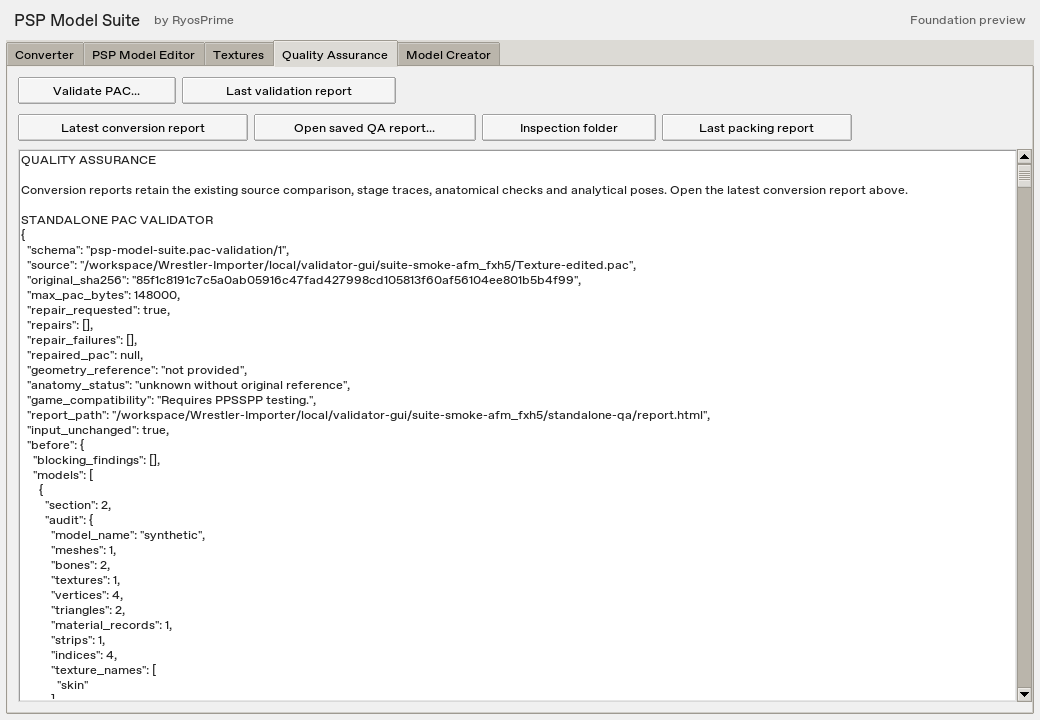
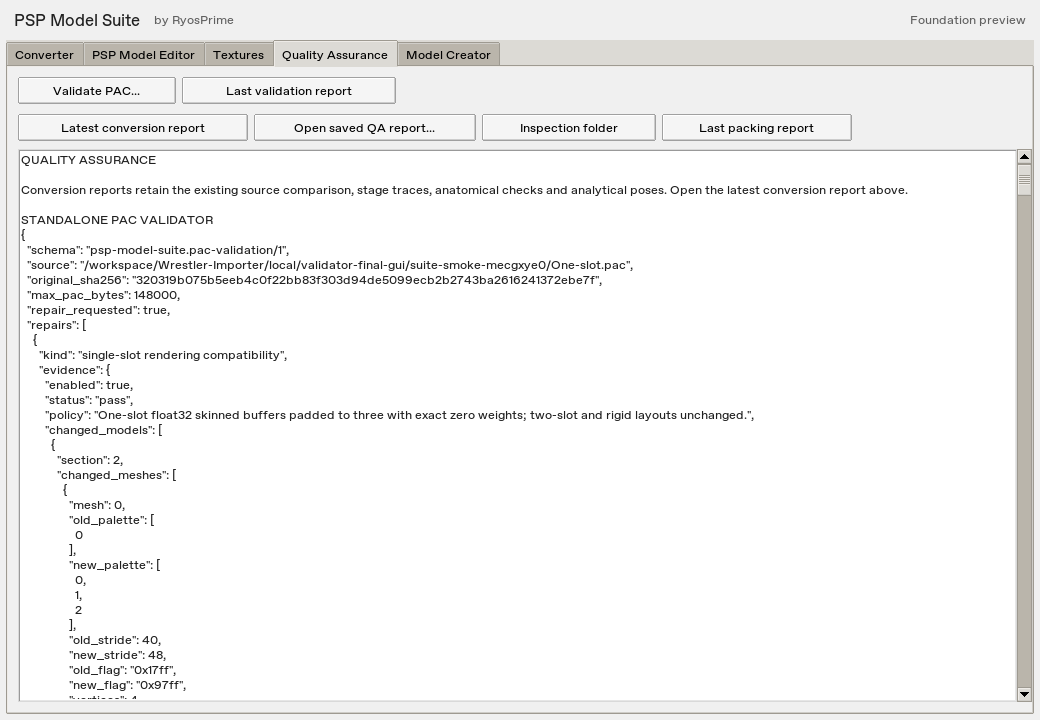
Exercise frozen PAC repairs and retain unresolved reference findings

Changed region(s): [[0.0308, 0.4583, 0.7077, 0.9778], [0.1231, 0.3667, 0.6154, 0.3972], [0.9846, 0.2444, 1.0, 0.275]]

diff --git a/tools/suite_smoke.py b/tools/suite_smoke.py
@@ -179,6 +179,29 @@ def run(app, output):
             raise ValueError('Validator changed an already valid PAC or failed its audit.')
         if not Path(validation['report_path']).is_file():
             raise ValueError('Standalone QA report missing.')
+        # Also cover the real repair path in the frozen build, without importing
+        # a test package or distributing any game-derived fixture.
+        import struct
+        from tools.psp_mesh_audit import audit_yobj
+        from tools.psp_mesh_merge import write_model
+        m=audit_yobj(files['psp-quad.yobj'])
+        record=bytearray(m['bone_raw'][:80]);record[:16]=b'extra'.ljust(16,b'\0')
+        struct.pack_into('<i',record,76,0)
+        m['bone_raw']+=record
+        header=bytearray(m['header']);struct.pack_into('<I',header,28,3);m['header']=bytes(header)
+        mesh=m['meshes'][0];stride=mesh['stride'];slots=mesh['weight_slots']
+        mesh['raw_vertices']=b''.join(struct.pack('<f',1.)+mesh['raw_vertices'][i*stride+4*slots:(i+1)*stride]
+                                      for i in range(len(mesh['vertices'])))
+        mesh.update(bone_palette=[0],stride=40,weight_slots=1)
+        repair_source=root/'One-slot.pac'
+        repair_source.write_bytes(pac([(2,write_model(m,[[0]])),(9,texture)]))
+        with patch('desktop.suite.messagebox.showerror') as errors:
+            shell.start_validation(repair_source,root/'repair-qa',resolution=96,samples=2000)
+            deadline=time.monotonic()+90
+            while shell.busy() and time.monotonic()<deadline:
+                app.root.update();time.sleep(.01)
+            if shell.busy() or errors.called or not shell.last_validation['repaired_pac']:
+                raise ValueError('Standalone frozen validator did not publish a verified repair.')
         for name in TABS:
             shell.tabs.select(shell.pages[name])
             app.root.update()
@@ -210,6 +233,7 @@ def run(app, output):
                 editable_folder_export_verified=True, unedited_folder_exact_round_trip=True,
                 edited_png_packed_and_previewed=True, native_models_preserved_on_pack=True,
                 standalone_pac_validator_worker_verified=True,
+                standalone_verified_repair_worker_verified=True,
                 creator_status='planned', game_assets_used=False)
     output.write_text(json.dumps(report,indent=2)+'\n',encoding='utf-8')
     shell.tabs.select(shell.converter)

diff --git a/desktop/pac_validator.py b/desktop/pac_validator.py
@@ -181,9 +181,11 @@ def validate_pac(source, output, *, reference=None, repair=True, max_bytes=14800
         if changed and not after['blocking_findings'] and not report['repair_failures'] and reference_ok:
             publish_new(output/'repaired.pac',candidate)
             report['repaired_pac']=str(output/'repaired.pac')
-            report['status']='repaired; game test required'
+            report['status']=('repaired; reference findings still require review' if report['anatomy_status']=='review required'
+                              else 'repaired; game test required')
         elif before['blocking_findings'] or after['blocking_findings'] or report['repair_failures'] or not reference_ok:
             report['status']='review required; repair withheld'
+        elif report['anatomy_status']=='review required':report['status']='reference review required; no supported repair'
         else:report['status']='no verified repair needed; game compatibility unverified'
         if private.exists():private.unlink()
     except Exception as exc:

diff --git a/downloads/model-suite-validator/README.md b/downloads/model-suite-validator/README.md
@@ -7,8 +7,8 @@ contains only counts/statuses from private user-supplied reference PACs; no game
 assets are distributed here. Kurt's oversized native reference is reported, not
 reduced or rewritten to satisfy the configured conversion budget.
 
-Local full suite: 370 tests passed before three additional validator regression
-tests were added. All 11 focused validator tests passed afterward. Windows
+Local full suite: 373 tests passed. All 11 focused validator tests passed.
+The GUI smoke also exercised a real single-slot repair through the isolated worker. Windows
 full-suite/frozen-app results will be recorded with the published build.
 
 See [validator scope and repair policy](../../docs/portable-pac-validator.md).
